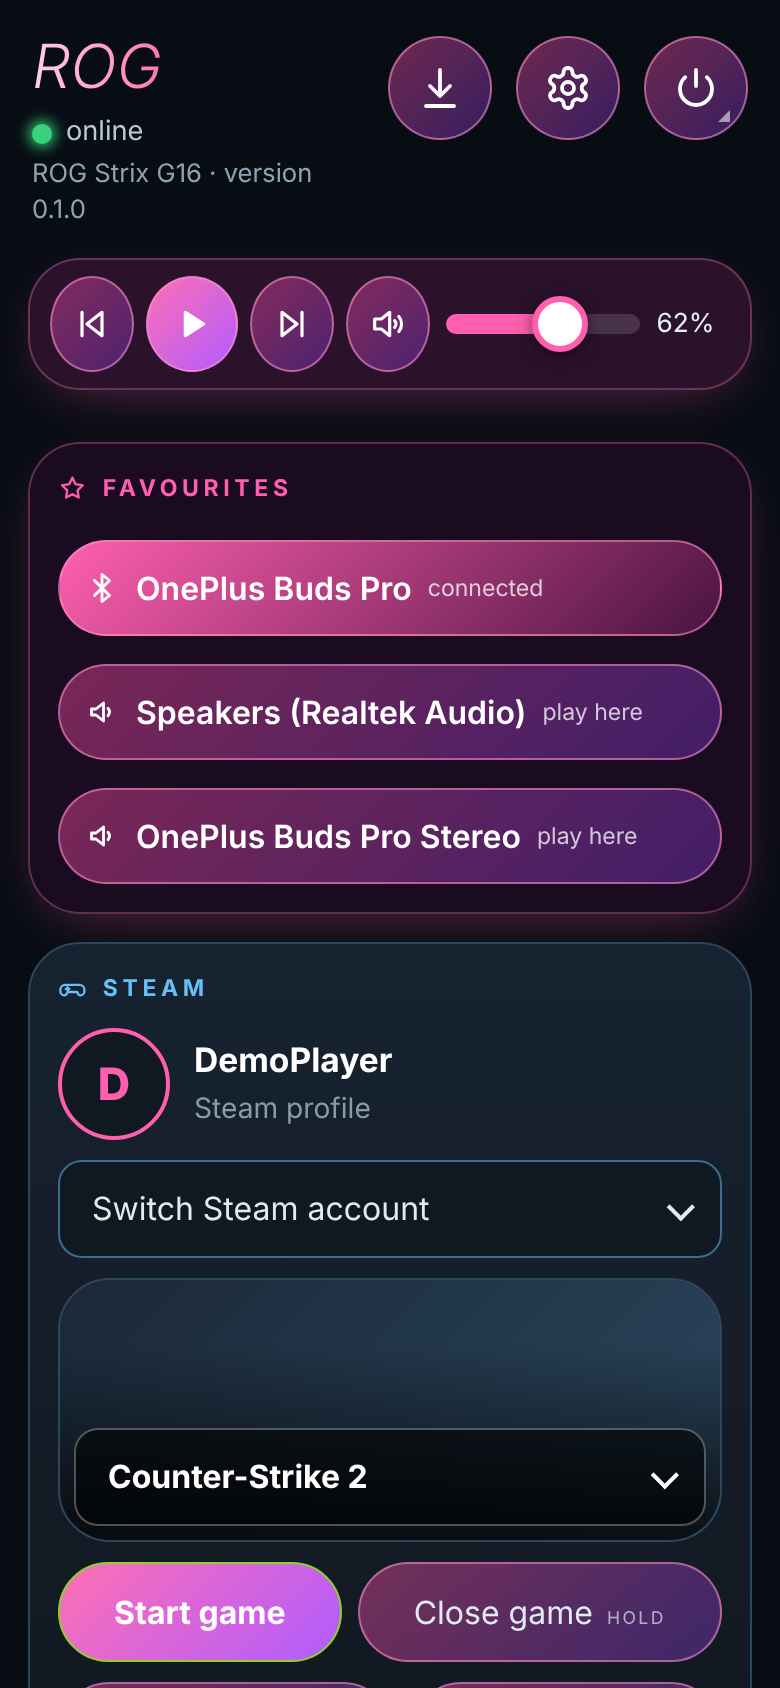
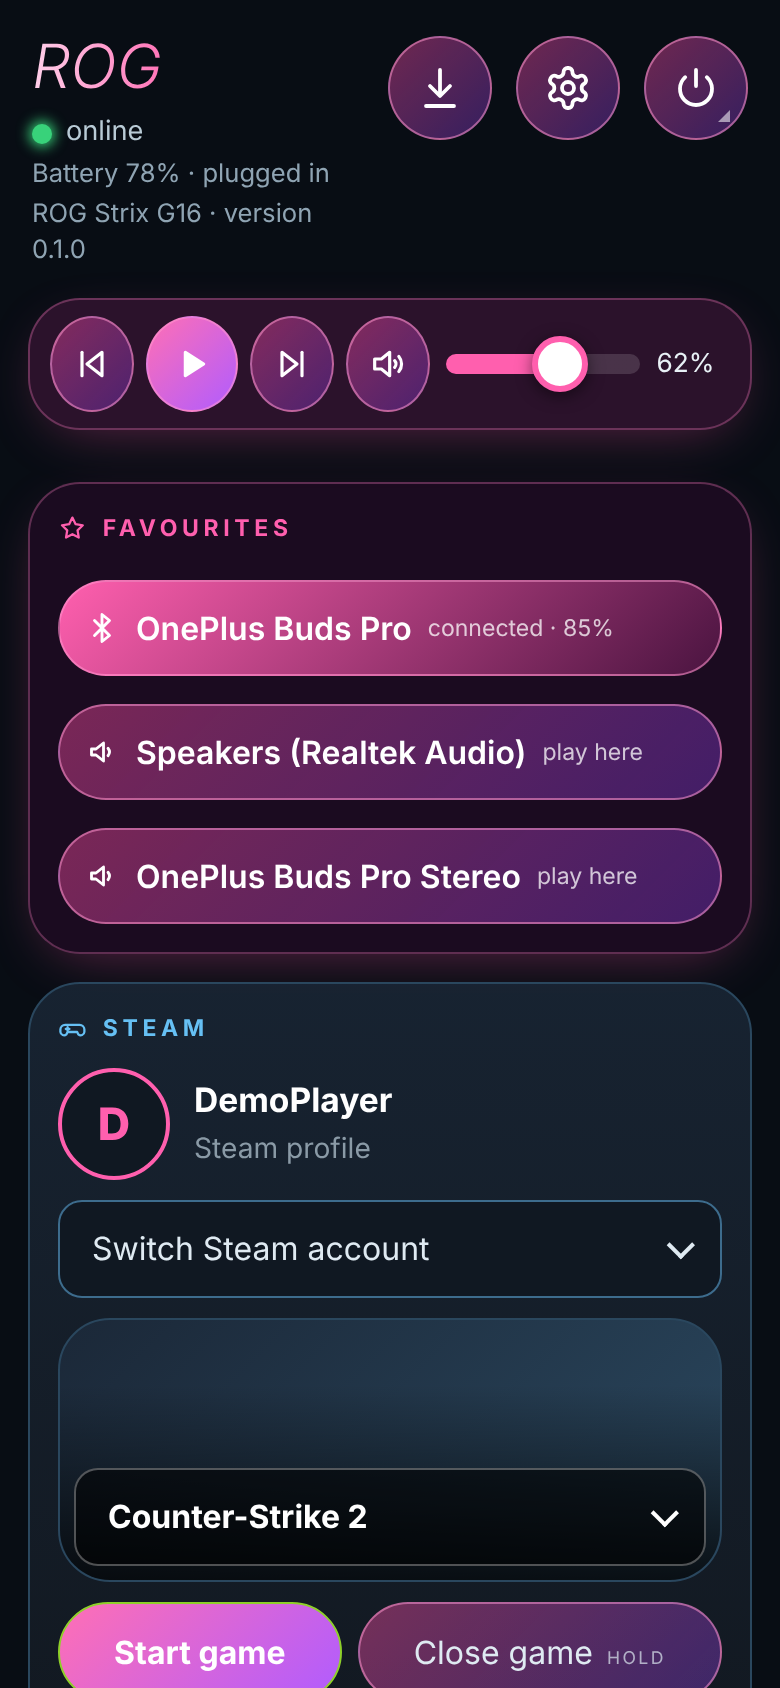
Battery: laptop charge in the header, earbud charge in the Bluetooth list and favourites; fix 0% battery on PCs without one
Claude-Session: https://claude.ai/code/session_012UQxDSXoho6XEbKP234m17

diff --git a/src/web/app.js b/src/web/app.js
@@ -680,7 +680,8 @@ function favoritesStrip(pc) {
     const c = btn(name, () => act(isOn ? 'bt_disconnect' : 'bt_connect', name), false, undefined, 'chip' + (isOn ? ' on' : ''))
     c.textContent = ''
     c.title = isOn ? 'Connected: tap to disconnect' : 'Tap to connect'
-    c.append(icon('bluetooth'), el('span', 'chip-t', name), el('small', '', isOn ? 'connected' : 'connect'))
+    const pct = (pc.btBattery || {})[name]
+    c.append(icon('bluetooth'), el('span', 'chip-t', name), el('small', '', isOn ? 'connected' + (pct ? ' · ' + pct + '%' : '') : 'connect'))
     chips.push(c)
   }
   for (const name of fav.out) {
@@ -777,6 +778,8 @@ function render() {
   const chip = el('div', 'chip')
   chip.append(el('span', 'dot'), el('span', '', helper ? 'helper (starts other PCs)' : 'online'))
   txt.append(chip)
+  // The laptop's own battery (nothing on a PC that has none).
+  if (pc.battery) txt.append(el('div', 'model', 'Battery ' + pc.battery.percent + '%' + (pc.battery.onBattery ? ' · on battery' : ' · plugged in')))
   const bits = [pc.model, data.version ? 'version ' + data.version : ''].filter(Boolean).join('  ·  ')
   if (bits) txt.append(el('div', 'model', bits))
   top.append(txt)
@@ -898,7 +901,8 @@ function render() {
         ic.append(icon('bluetooth'))
         item.append(starBtn('bt', name, ((pc.favorites || {}).bt || []).includes(name)))
         const nm = el('div', 'nm', name)
-        nm.append(el('small', 'btstat' + (isOn ? ' on' : ''), isOn ? 'Connected' : 'Not connected'))
+        const pct = (pc.btBattery || {})[name]
+        nm.append(el('small', 'btstat' + (isOn ? ' on' : ''), (isOn ? 'Connected' : 'Not connected') + (isOn && pct ? ' · battery ' + pct + '%' : '')))
         item.append(ic, nm)
         const acts = el('div', 'acts')
         acts.append(btn('Connect', () => act('bt_connect', name), false, undefined, isOn ? '' : 'go'), btn('Disconnect', () => act('bt_disconnect', name), false, undefined, isOn ? 'go' : ''))

diff --git a/context.md b/context.md
@@ -213,3 +213,6 @@ Tests: swr sharing/parallel/stale, timings, volume coalescing, gzip+ETag+304, pr
 
 ## Favourites (owner, 2026-11-22: "favourite button for the Bluetooth devices and sound output ... shows up at the top without pressing the dropdown")
 - Star button on every Bluetooth device and every sound output (starBtn). Starred ones appear in a "Favourites" card (favoritesStrip) right under the pinned player bar: a Bluetooth chip connects (or disconnects when connected), an output chip switches the sound ("play here" / "playing here"). Saved on the PC in favorites.json {bt:[],out:[]} (max 8 each) so every phone sees the same ones: action favorite_set arg "bt|1|Name" or "out|0|Name" (only names in the current lists can be starred), info.favorites; knownFavorites() in actions.mjs. A favourite that is not in the current list (an output that appears only while the earbuds are connected) is simply hidden until it is. Untested on real Windows.
+
+## Battery (owner, 2026-11-22: "battery percentage for the laptops and earbuds if possible")
+- Laptop: info.battery {percent, onBattery} (Win32_Battery via the BATTERY script, swr 30 s; null on a PC with no battery); shown under the name in the header ("Battery 78% · plugged in"). Earbuds: BT_LIST has a 3rd column, the Windows property DEVPKEY_Bluetooth_Battery {104EA319-6EE2-4701-BD47-8DDBF425BBE5} 2, asked ONLY for connected devices; info.btBattery {name: percent}; shown in the Bluetooth list ("Connected · battery 85%") and on the Favourites chip. Many earbuds do not report a level to Windows: then nothing is shown (not a bug). BUG FIXED on the way: an empty battery answer was read as 0% (a PC without a battery said "Battery 0%"), in the page data and in the Status button. Untested on real hardware.
